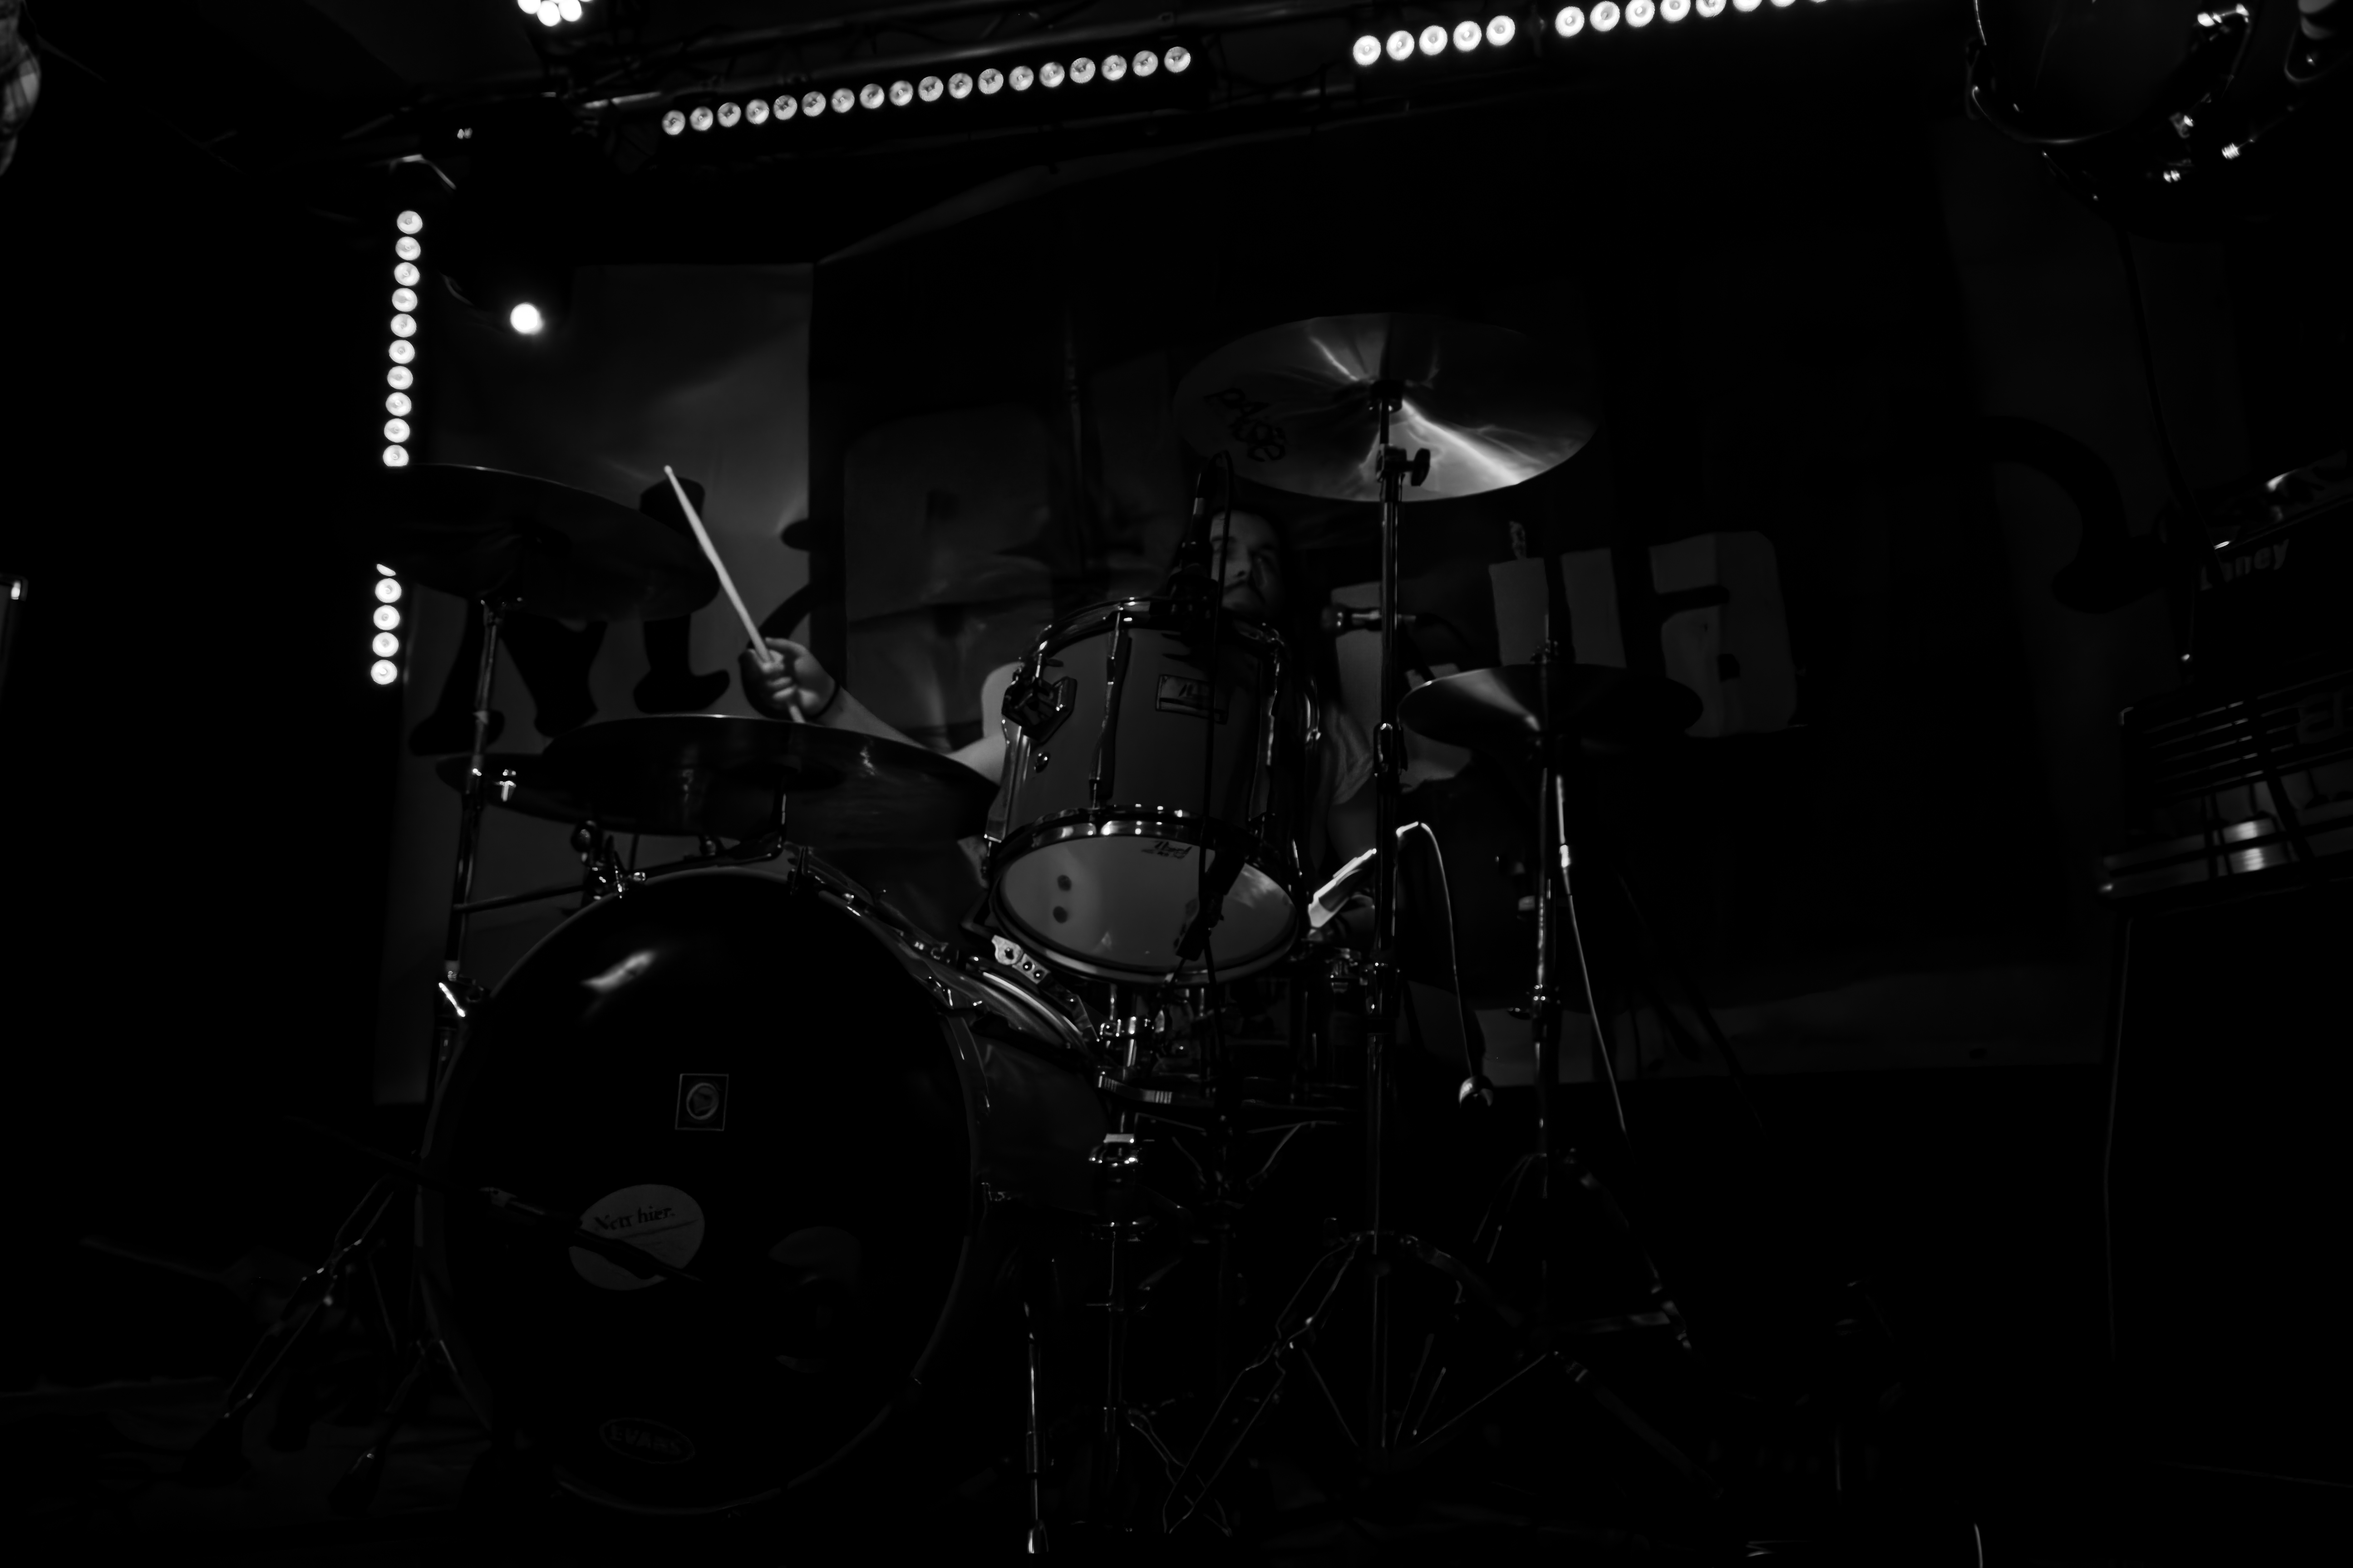
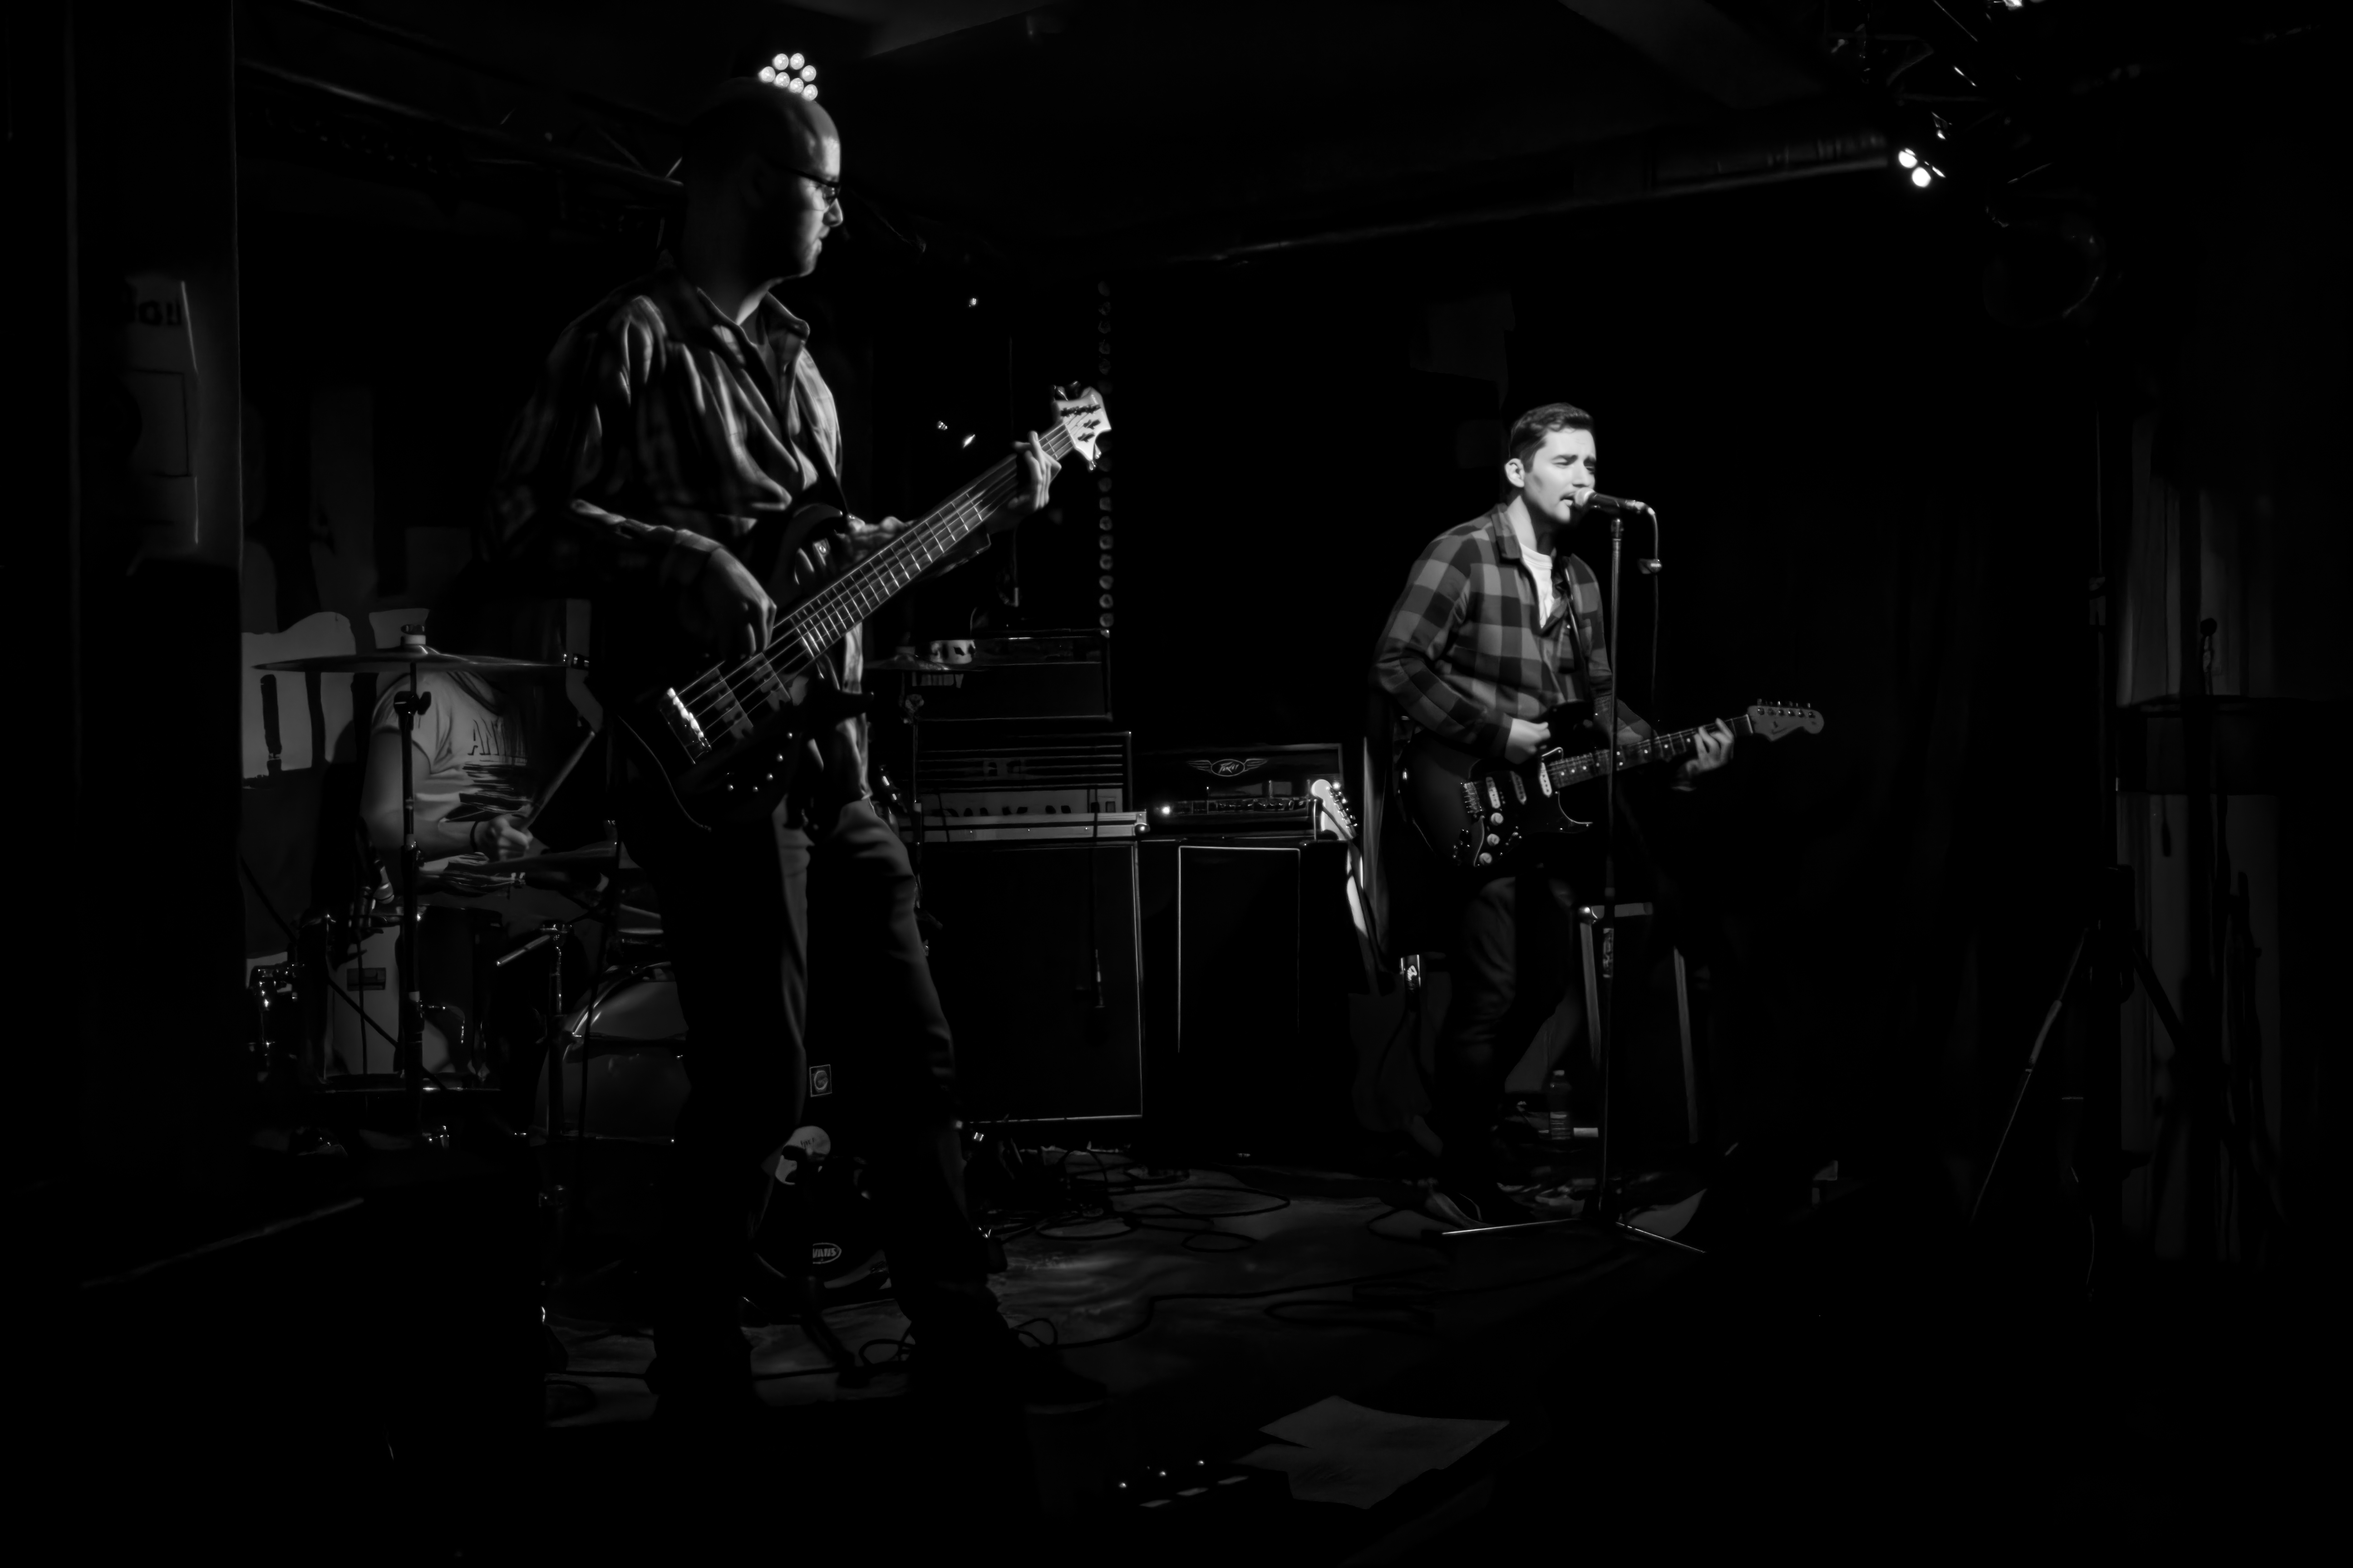
changes

diff --git a/styles.css b/styles.css
@@ -233,7 +233,7 @@ img {
     align-items: center;
     justify-content: center;
     position: relative;
-    background: url('img/meadow.png') center/cover no-repeat;
+    background: url('img/band2.jpg') center/cover no-repeat;
 }
 
 .hero-overlay {
@@ -257,7 +257,7 @@ img {
     font-size: 6rem;
     color: var(--electric-blue);
     text-shadow: 0 0 40px rgba(53, 132, 228, 0.5);
-    margin-bottom: 10px;
+    margin-bottom: 30px;
     animation: fadeInUp 1s ease;
     display: flex;
     flex-direction: column;
@@ -346,7 +346,7 @@ img {
    ABOUT SECTION
    ============================================ */
 .about {
-    background: url('img/band2.jpg') center/cover no-repeat;
+    background: var(--dark-blue);
     position: relative;
 }
 
@@ -358,10 +358,10 @@ img {
 }
 
 .about-content {
-    display: grid;
-    grid-template-columns: 1fr 1fr;
-    gap: 50px;
-    align-items: center;
+    display: block;
+    max-width: 800px;
+    margin: 0 auto;
+    text-align: center;
 }
 
 .about-text {
@@ -369,6 +369,7 @@ img {
     font-weight: 300;
     color: #ffffff;
     text-shadow: 1px 1px 3px rgba(0, 0, 0, 0.8);
+    text-align: center;
 }
 
 .about-text p {
@@ -405,7 +406,15 @@ img {
    MEMBERS SECTION
    ============================================ */
 .members {
-    background: var(--midnight-blue);
+    background: url('img/meadow.png') center/cover no-repeat;
+    position: relative;
+}
+
+.members::before {
+    content: '';
+    position: absolute;
+    inset: 0;
+    background: rgba(10, 22, 40, 0.5);
 }
 
 .members-grid {
@@ -844,6 +853,29 @@ img {
     background: var(--midnight-blue);
 }
 
+.gigs-image {
+    position: relative;
+    max-width: 600px;
+    margin: 0 auto 40px;
+}
+
+.gigs-image img {
+    border-radius: 5px;
+    box-shadow: 0 20px 50px rgba(0, 0, 0, 0.5);
+}
+
+.gigs-image::before {
+    content: '';
+    position: absolute;
+    top: -10px;
+    left: -10px;
+    right: 10px;
+    bottom: 10px;
+    border: 2px solid var(--electric-blue);
+    border-radius: 5px;
+    z-index: -1;
+}
+
 .gigs-list {
     display: flex;
     flex-direction: column;
@@ -1016,13 +1048,23 @@ img {
    CONTACT SECTION
    ============================================ */
 .contact {
-    background: linear-gradient(180deg, var(--midnight-blue) 0%, var(--dark-blue) 100%);
+    background: url('img/meadow2.png') center/cover no-repeat;
+    position: relative;
+}
+
+.contact::before {
+    content: '';
+    position: absolute;
+    inset: 0;
+    background: rgba(10, 22, 40, 0.7);
 }
 
 .contact-content {
     display: grid;
     grid-template-columns: 1fr 1fr;
     gap: 50px;
+    position: relative;
+    z-index: 1;
 }
 
 .contact-info h3 {

diff --git a/index.html b/index.html
@@ -73,13 +73,7 @@
                         2015 — a blend of aggressive riffs, haunting vocals, and thunderous rhythms that pay homage to
                         the
                         '90s grunge legends while forging our own path.</p>
-                    <p>We've released three albums and performed at venues throughout Baden-Württemberg, building a
-                        loyal following of fans who connect with our unfiltered, emotionally charged performances. Our
-                        music explores themes of alienation, resilience, and the beauty in brokenness.</p>
                     <p><em>Three members. Three instruments. One mission — to make you feel something.</em></p>
-                </div>
-                <div class="about-image">
-                    <img src="img/band.jpg" alt="Blue Malva Band">
                 </div>
             </div>
         </div>
@@ -259,6 +253,9 @@
         <div class="container">
             <h2 class="section-title">Upcoming Gigs</h2>
             <p class="section-subtitle">Catch us live in Stuttgart and surrounding areas</p>
+            <div class="gigs-image">
+                <img src="img/band.jpg" alt="Blue Malva Band Live">
+            </div>
             <div class="gigs-list">
                 <div class="gig-card">
                     <div class="gig-date">
